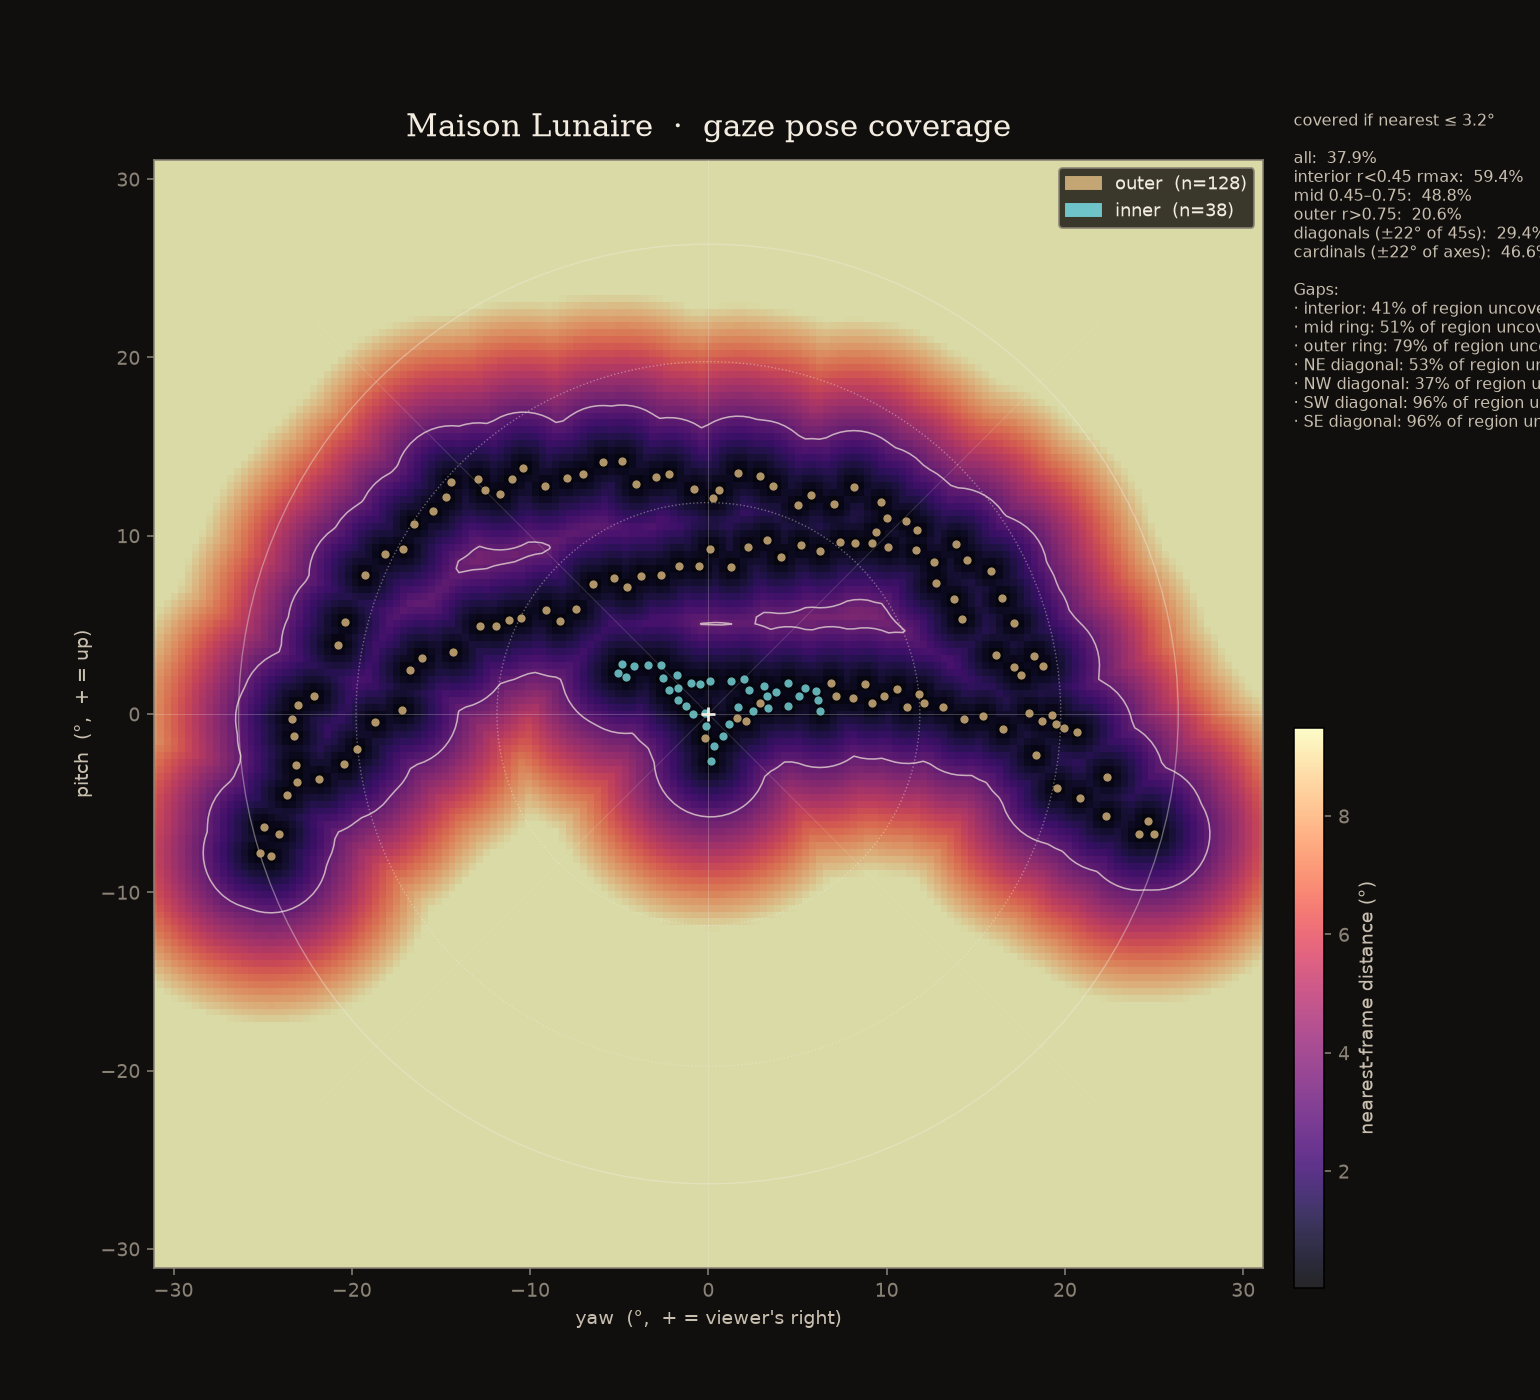
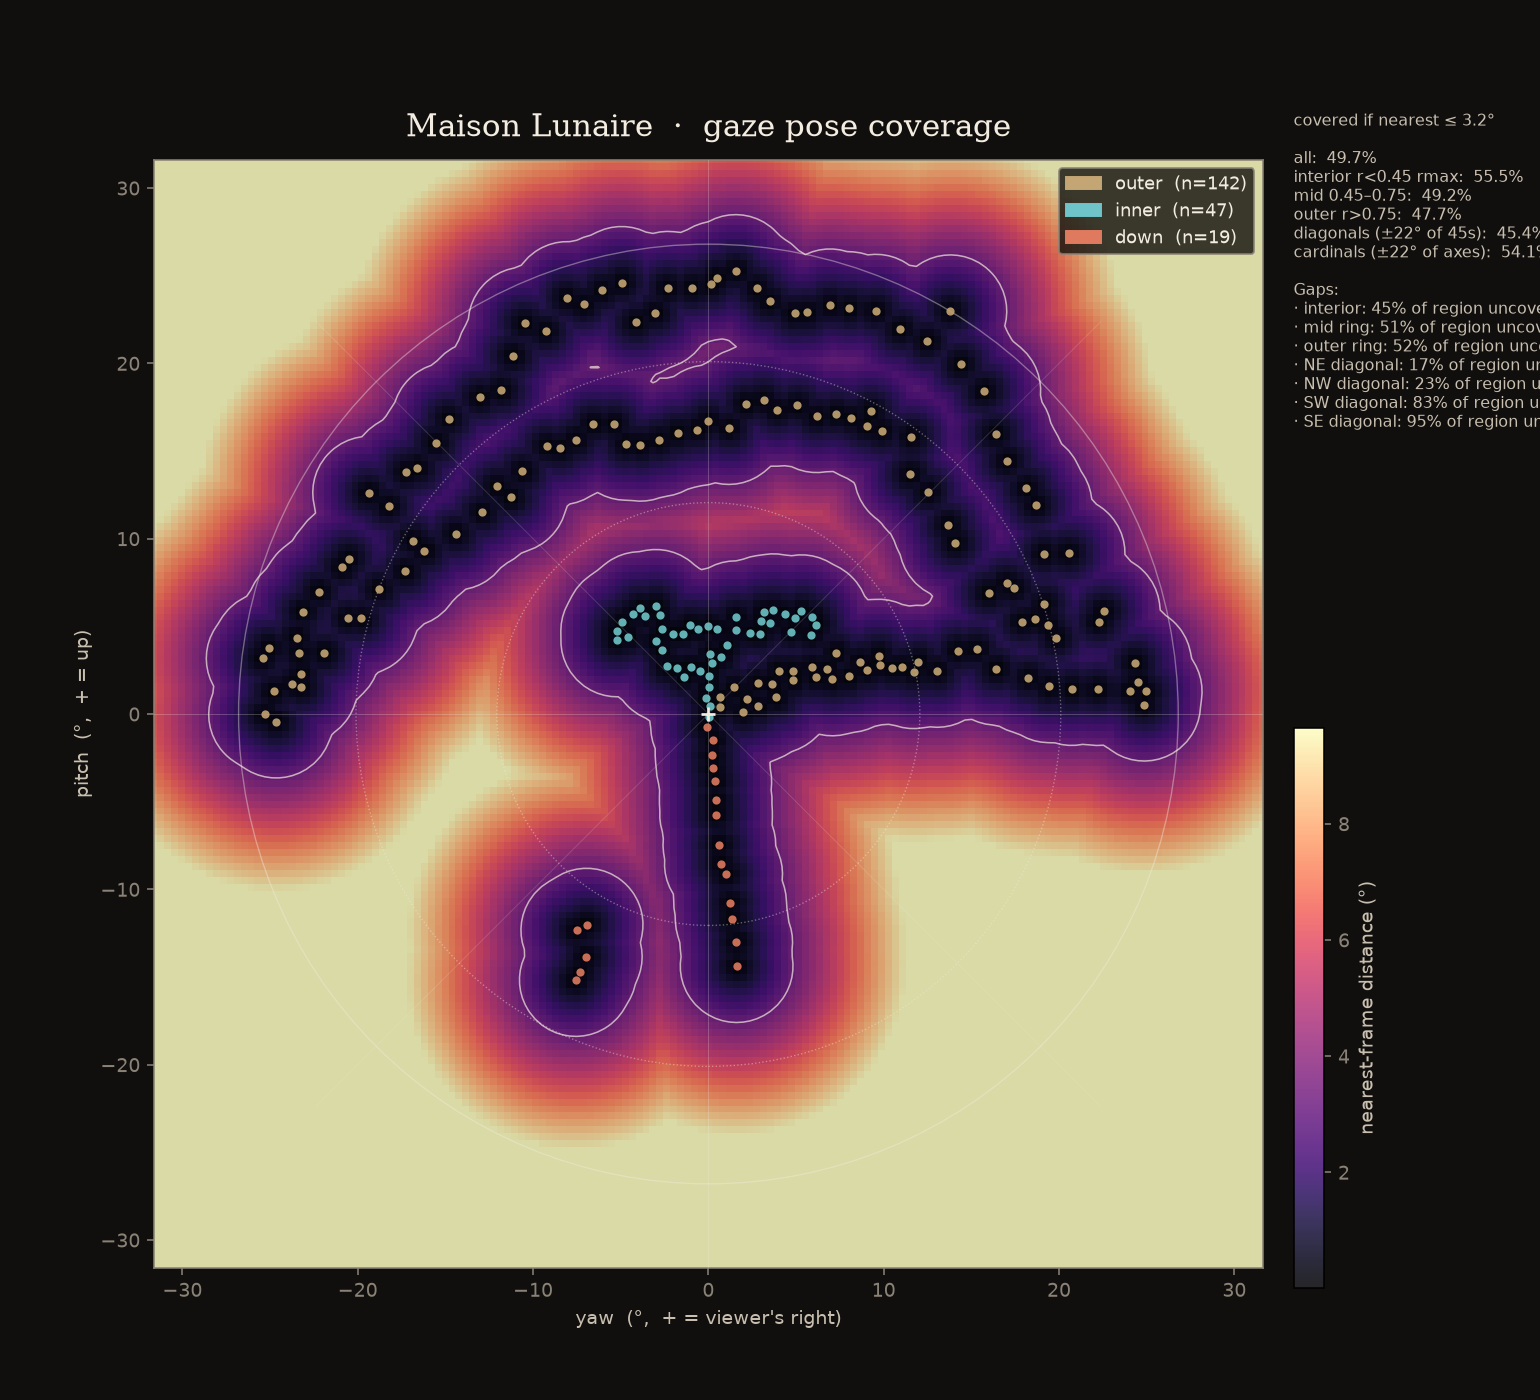
Merge downward gaze clip and open the south short-way.
Adds gaze-down.mp4 frames (open-eye only) so he looks down as well
as left, right and up. Pitch now comes from MediaPipe's head-nod
rotation. Glide takes the true short way around once the south is
covered. Closed-eye downward frames are still dropped.

diff --git a/js/gaze.js b/js/gaze.js
@@ -136,12 +136,15 @@
   }
 
   function buildCoveredArc() {
-    const outer = frames.filter((f) => f.src === "outer" && f.radius > 6);
-    const rads = outer
+    // Any mid/large-radius pose (outer horseshoe, downward clip, future rings).
+    // Once the south is filled, the largest remaining gap is small and the
+    // short way around the loop is allowed.
+    const ring = frames.filter((f) => f.src !== "rest" && f.radius > 6);
+    const rads = ring
       .map((f) => (f.angle * Math.PI) / 180)
       .sort((a, b) => a - b);
     if (rads.length < 4) {
-      coveredArc = { start: -Math.PI, end: Math.PI, span: Math.PI * 2 };
+      coveredArc = { start: -Math.PI, end: Math.PI, span: Math.PI * 2, gap: 0 };
       return;
     }
     // Largest gap between successive angles (plus wrap) is the uncovered south opening.
@@ -171,8 +174,15 @@
     if (Math.abs(span) < want * 0.7) {
       span = span >= 0 ? want : -want;
     }
+    // If the largest remaining hole is small, the circle is complete:
+    // idle can orbit all the way around, and glide takes the true short way.
+    if (maxGap < 0.5) {
+      start = 0;
+      span = Math.PI * 2;
+      end = Math.PI * 2;
+    }
     coveredArc = { start, end, span, gap: maxGap };
-    const rs = outer.map((f) => f.radius);
+    const rs = ring.map((f) => f.radius);
     rs.sort((a, b) => a - b);
     outerMedR = rs[(rs.length / 2) | 0];
   }

diff --git a/tools/process_frames.py b/tools/process_frames.py
@@ -33,6 +33,7 @@ SKIP_CLIPS = {"gaze-loop.mp4"}  # v1, eyes closed
 ALIAS = {
     "gaze-loop-v2": "outer",
     "gaze-inner": "inner",
+    "gaze-down": "down",
 }
 
 # MediaPipe Face Mesh landmark indices
@@ -317,8 +318,11 @@ def choose_convention(rows):
     # PnP/matrix Euler proved gimbal-unstable on this footage (yaw flips to ±170°,
     # pitch swallowed the left/right motion). Nose offset is viewer-aligned and
     # stable: +nose_x = looking right, +nose_y (recentered) = looking up.
-    print("Forcing nose-offset convention (yaw_sign=1, pitch_sign=1).")
-    return "nose", 1, 1
+    # Yaw from nose offset (gimbal-free, viewer-aligned). Pitch from MediaPipe
+    # matrix: a true head *nod* (looking down) barely changes nose-to-eye
+    # offset — both features move together — but mat_pitch and face_cy track it.
+    print("Forcing hybrid convention: nose yaw + flipped mat_pitch (yaw_sign=1, pitch_sign=1).")
+    return "hybrid", 1, 1
 
     # Score each (source, yaw_sign, pitch_sign)
     best = ("mat", 1, 1, -1e9)
@@ -366,7 +370,12 @@ def choose_convention(rows):
 
 def apply_convention(rows, use, ys, ps):
     for r in rows:
-        if use == "nose":
+        if use == "hybrid":
+            r["yaw_raw"] = ys * r["nose_x"] * 35.0
+            # Flip so +pitch is up (mat_pitch grows as the head nods down).
+            r["pitch_raw"] = ps * (-(r["mat_pitch"] if r["mat_pitch"] is not None else 0.0))
+            r["roll"] = r["eye_roll"]
+        elif use == "nose":
             # Scale nose offsets into rough degrees so JS math is uniform.
             r["yaw_raw"] = ys * r["nose_x"] * 35.0
             r["pitch_raw"] = ps * r["nose_y"] * 35.0
@@ -389,9 +398,14 @@ def origin_and_recenter(rows):
     inner = [r for r in rows if r["src"] == "inner"]
     outer = [r for r in rows if r["src"] == "outer"]
     seeds = []
-    if outer:
-        # start and end of outer loop should be near center
-        seeds += [r for r in outer if r["t"] < 0.25 or r["t"] > 7.6]
+    # Start/end of every looping clip (outer, down, future rings) should be near center
+    by = {}
+    for r in rows:
+        by.setdefault(r["src"], []).append(r)
+    for src, grp in by.items():
+        if src == "inner":
+            continue
+        seeds += [r for r in grp if r["t"] < 0.25 or r["t"] > 7.6]
     if inner:
         # smallest 15% of inner radii — the circle's interior, near its center
         inn = sorted(inner, key=lambda r: r["_r0"])
@@ -429,10 +443,20 @@ def filter_rows(rows):
     for r in rows:
         reasons = []
         blink = ((r["blink_l"] or 0) + (r["blink_r"] or 0)) / 2
-        if r["ear"] < ear_thr:
-            reasons.append(f"ear={r['ear']:.3f}<{ear_thr:.3f}")
-        if blink > blink_thr:
+        # Downward gaze naturally lowers EAR (more eyelid is visible) even
+        # when the eyes are open. Allow a lower EAR for a clear downward
+        # nod, as long as the blink blendshape is not high and the lids
+        # are not fully shut.
+        looking_down = r.get("pitch", 0) < -4.0
+        if blink > 0.45:
             reasons.append(f"blink={blink:.2f}")
+        elif r["ear"] < 0.15:
+            reasons.append(f"ear={r['ear']:.3f}<0.15(shut)")
+        elif r["ear"] < ear_thr:
+            if looking_down and blink <= 0.43 and r["ear"] >= 0.15:
+                pass  # keep: open eyes, looking down
+            else:
+                reasons.append(f"ear={r['ear']:.3f}<{ear_thr:.3f}")
         if r["pnp_err"] is not None and r["pnp_err"] > pnp_thr * 1.15:
             reasons.append(f"pnp_err={r['pnp_err']:.1f}")
         if abs(r["roll"] or 0) > roll_thr:
@@ -617,6 +641,7 @@ def coverage_plot(rows, data, out_path: Path):
     colors = {
         "outer": "#c4a574",
         "inner": "#6ec4c8",
+        "down": "#e07a5f",
         "rest": "#f3ece0",
     }
     # leftover names get a palette
@@ -863,6 +888,24 @@ def main():
             r = cand[len(cand) // 2]
             print(f"  t={r['t']:.2f}  yaw={r['yaw']:+6.2f}  pitch={r['pitch']:+6.2f}  r={r['radius']:.2f}  ang={r['angle']:+6.1f}  ear={r['ear']:.3f}")
 
+    down = [r for r in all_rows if r["src"] == "down"]
+    if down:
+        print("\nDown clip radius: "
+              f"min={min(r['radius'] for r in down):.2f}  "
+              f"med={__import__('numpy').median([r['radius'] for r in down]):.2f}  "
+              f"max={max(r['radius'] for r in down):.2f}")
+        print("  pitch: "
+              f"min={min(r['pitch'] for r in down):.2f}  "
+              f"med={__import__('numpy').median([r['pitch'] for r in down]):.2f}  "
+              f"max={max(r['pitch'] for r in down):.2f}")
+        print("Down at 0/1/2/3/4/5/6/8s:")
+        for tt in (0, 1, 2, 3, 4, 5, 6, 8):
+            cand = [r for r in down if abs(r["t"] - tt) <= 0.15]
+            if not cand:
+                continue
+            r = cand[len(cand) // 2]
+            print(f"  t={r['t']:.2f}  yaw={r['yaw']:+6.2f}  pitch={r['pitch']:+6.2f}  r={r['radius']:.2f}  ang={r['angle']:+6.1f}  ear={r['ear']:.3f}")
+
     kept, dropped = filter_rows(all_rows)
     kept = light_dedup(kept, deg=0.50)
 
@@ -901,6 +944,9 @@ def main():
         ("outer-center", 0.0, "outer"),
         ("inner-t1", 1.0, "inner"),
         ("inner-t2", 2.0, "inner"),
+        ("down-left", 1.0, "down"),
+        ("down-center", 3.0, "down"),
+        ("down-right", 5.0, "down"),
     ]:
         cand = [r for r in kept if r["src"] == src and abs(r["t"] - t) <= 0.2]
         if not cand:
